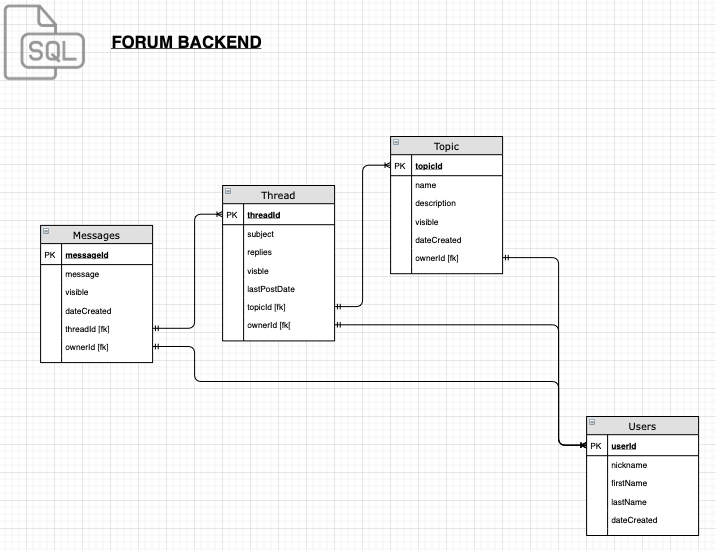
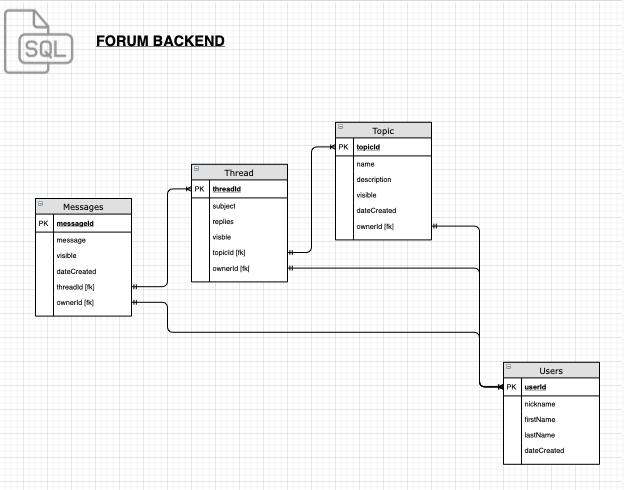
Fixed project, removed 'lastPostDate' from table Threads.

diff --git a/ForumUI/ForumViewer.cs b/ForumUI/ForumViewer.cs
@@ -332,7 +332,7 @@ namespace ForumUI
                     Console.Clear();
                     Console.WriteLine($"Browsing as: {currentUser.nickName} [ID: {currentUser.userId}]");
                     Console.WriteLine($"  >>TOPIC: {currentTopic.name} ({currentTopic.description}) ID:{currentTopic.topicId} Created:{currentTopic.dateCreated}");
-                    Console.WriteLine($"    >>THREAD: {currentThread.subject} ID:{currentThread.threadId}  Owner:{GetUserNameFromID(users, currentThread.ownerId)} Created:{currentThread.lastPostDate}");
+                    Console.WriteLine($"    >>THREAD: {currentThread.subject} ID:{currentThread.threadId}  Owner:{GetUserNameFromID(users, currentThread.ownerId)}");
 
                     Console.WriteLine($"\n\nID\tDATE\t   CREATED BY\t    MESSAGE\n");
                     foreach (var message in messages)

diff --git a/ForumLibrary/Threads/Threads.cs b/ForumLibrary/Threads/Threads.cs
@@ -11,7 +11,6 @@ namespace ForumLibrary
         public int threadId { get; set; }
         public int topicId { get; set; }
         public int ownerId { get; set; }
-        public string lastPostDate { get; }
         public string subject { get; set; }
         public int visible { get; set; }
     }
